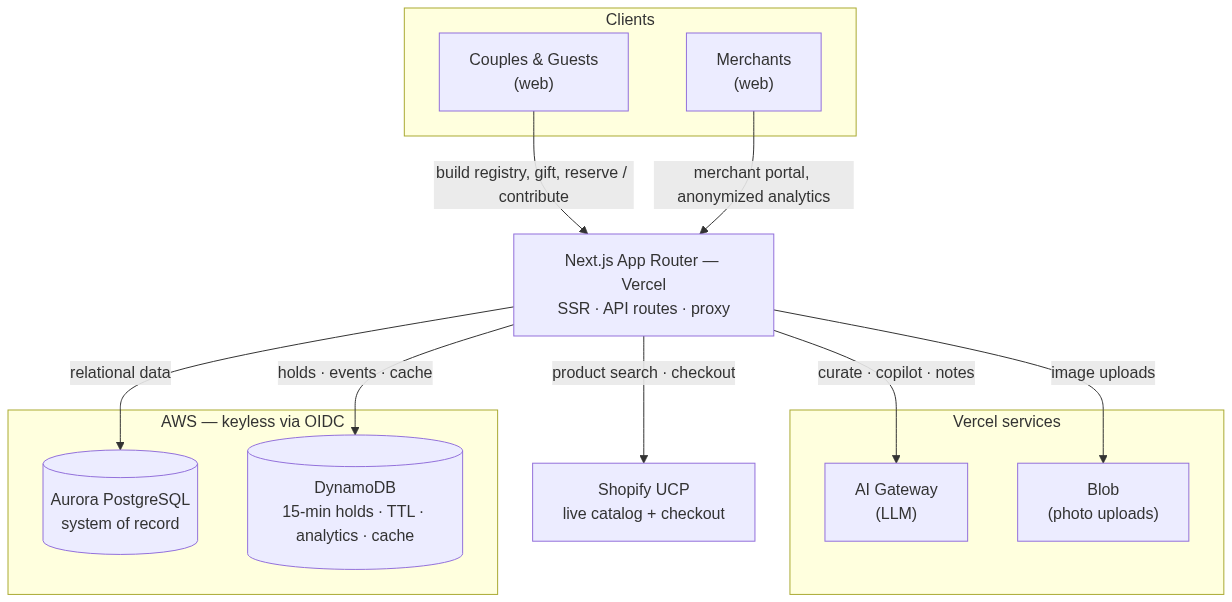
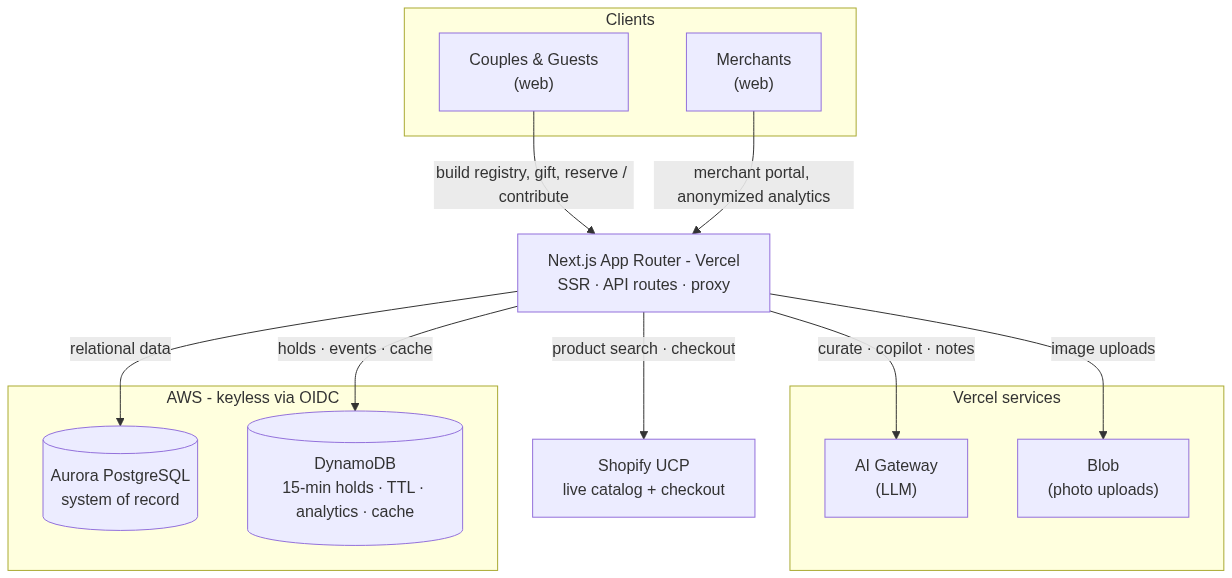
docs: replace em dashes with normal dashes / colons / parentheses

diff --git a/SUBMISSION.md b/SUBMISSION.md
@@ -1,4 +1,4 @@
-# VowCart — AI-Powered Universal Wedding Registry
+# VowCart - AI-Powered Universal Wedding Registry
 
 > A universal wedding registry that pulls real products from **any** Shopify merchant, lets AI build and manage it for couples, and turns aggregate registry demand into privacy-safe analytics for brands.
 
@@ -23,7 +23,7 @@ flowchart TB
     M["Merchants<br/>(web)"]
   end
 
-  APP["Next.js App Router — Vercel<br/>SSR · API routes · proxy"]
+  APP["Next.js App Router - Vercel<br/>SSR · API routes · proxy"]
 
   subgraph VSVC["Vercel services"]
     direction LR
@@ -33,7 +33,7 @@ flowchart TB
 
   SHOP["Shopify UCP<br/>live catalog + checkout"]
 
-  subgraph AWS["AWS — keyless via OIDC"]
+  subgraph AWS["AWS - keyless via OIDC"]
     direction LR
     PG[("Aurora PostgreSQL<br/>system of record")]
     DDB[("DynamoDB<br/>15-min holds · TTL · analytics · cache")]
@@ -52,7 +52,7 @@ flowchart TB
 **How the pieces connect**
 
 - **Next.js on Vercel** serves both the couple-facing app and the separate merchant portal, and hosts all API routes.
-- **Aurora PostgreSQL** is the relational source of truth — couples, registries, registry items, purchases, group-gift/cash-fund contributions, merchants, and sponsored campaigns.
+- **Aurora PostgreSQL** is the relational source of truth - couples, registries, registry items, purchases, group-gift/cash-fund contributions, merchants, and sponsored campaigns.
 - **DynamoDB** handles ephemeral, high-velocity, TTL-driven state: 15-minute reservation locks that auto-expire, analytics events, and an AI response cache.
 - **Vercel AI Gateway** runs the LLM features (registry curation, AI Copilot, recommendations, thank-you notes).
 - **Shopify Universal Commerce Protocol** provides keyless live product search across the global catalog and merchant checkout handoff.
@@ -65,17 +65,17 @@ flowchart TB
 
 **A large, resilient market.** Weddings are one of the most durable consumer-spend categories there is: **~2.0M weddings per year in the US** ([CDC/NCHS reported ~2.04M marriages in 2023][cdc]; [The Wedding Report][twr] estimates ~2.0M weddings in 2024–25), inside a **~$63–70B/year US wedding industry** ([Grand View Research: $64.9B in 2024][gvr]; [IBISWorld: $70.3B in 2023][ibis]) and a global wedding-services market estimated at **$250B+** and growing double digits ([Grand View Research][gvr-global]).
 
-**The registry is the commerce core of it.** About **91% of couples create a wedding registry**, and — for the first time — online registry creation (55%) has overtaken in-store (44%) ([The Knot][knot-insights]). Guests spend an average of **~$150 per wedding gift** ([The Knot 2024 Guest Study][knot-gift]), against an average US wedding cost of **~$33,000** ([The Knot 2024 Real Weddings Study][knot-rws]). The **digital wedding registry market itself** is estimated at roughly **$16B in 2025, projected to ~$50B by 2033 (~14.8% CAGR)** ([market research, 2025][reg-market]). And the same registry primitive powers adjacent, year-round occasions — baby showers, housewarmings, birthdays, holidays — so the model extends well beyond weddings.
+**The registry is the commerce core of it.** About **91% of couples create a wedding registry**, and (for the first time) online registry creation (55%) has overtaken in-store (44%) ([The Knot][knot-insights]). Guests spend an average of **~$150 per wedding gift** ([The Knot 2024 Guest Study][knot-gift]), against an average US wedding cost of **~$33,000** ([The Knot 2024 Real Weddings Study][knot-rws]). The **digital wedding registry market itself** is estimated at roughly **$16B in 2025, projected to ~$50B by 2033 (~14.8% CAGR)** ([market research, 2025][reg-market]). And the same registry primitive powers adjacent, year-round occasions (baby showers, housewarmings, birthdays, holidays), so the model extends well beyond weddings.
 
-**Why today's registries aren't actually universal.** The incumbents — Zola, The Knot, Amazon, Target, Crate & Barrel — build their catalogs through **merchant partnerships and one-off integrations**. Every brand on the platform is the result of a BD deal plus custom engineering, so even a "universal" registry is really a curated set of a few hundred partner brands. "Add any item" usually degrades to "paste a link we can't transact on," and most independent / DTC brands are simply missing. The catalog is gated by business development, not by what couples actually want to shop.
+**Why today's registries aren't actually universal.** The incumbents (Zola, The Knot, Amazon, Target, Crate & Barrel) build their catalogs through **merchant partnerships and one-off integrations**. Every brand on the platform is the result of a BD deal plus custom engineering, so even a "universal" registry is really a curated set of a few hundred partner brands. "Add any item" usually degrades to "paste a link we can't transact on," and most independent / DTC brands are simply missing. The catalog is gated by business development, not by what couples actually want to shop.
 
-**Why now — UCP changes the unit economics.** Shopify's **Universal Commerce Protocol (UCP)** flips that model. Instead of integrating merchants one at a time, an app gets **programmatic, keyless access to entire commerce catalogs and checkout through a single protocol**. Starting with the **Shopify ecosystem** — millions of merchants and a huge share of modern DTC/independent brands — the addressable product universe jumps from "our partner catalog" to **the open commerce graph**, effectively overnight. That is the entire thesis behind VowCart:
+**Why now: UCP changes the unit economics.** Shopify's **Universal Commerce Protocol (UCP)** flips that model. Instead of integrating merchants one at a time, an app gets **programmatic, keyless access to entire commerce catalogs and checkout through a single protocol**. Starting with the **Shopify ecosystem** (millions of merchants and a huge share of modern DTC/independent brands), the addressable product universe jumps from "our partner catalog" to **the open commerce graph**, effectively overnight. That is the entire thesis behind VowCart:
 
-- Couples get a **genuinely universal** registry — any product from any Shopify merchant, actually transactable, not a dead link.
+- Couples get a **genuinely universal** registry - any product from any Shopify merchant, actually transactable, not a dead link.
 - The catalog scales with **zero per-merchant BD or integration cost**, making the product viable for a small team and compounding as UCP adoption grows.
-- A broader, more relevant catalog lifts **gift conversion** — which makes the **anonymized demand analytics** we sell to brands meaningfully more valuable.
+- A broader, more relevant catalog lifts **gift conversion** - which makes the **anonymized demand analytics** we sell to brands meaningfully more valuable.
 
-UCP is the reason a truly universal registry is suddenly buildable — and why the timing is now.
+UCP is the reason a truly universal registry is suddenly buildable - and why the timing is now.
 
 <sub>Sources: figures are from third-party industry research and may use differing methodologies; ranges are given where estimates vary.</sub>
 
@@ -93,9 +93,9 @@ UCP is the reason a truly universal registry is suddenly buildable — and why t
 
 ## Inspiration
 
-Wedding registries are stuck in the past. Every store runs its own — so couples end up with three or four registries, and guests bounce between sites just to find something to buy. The result: duplicate gifts, abandoned big-ticket items nobody wants to buy alone, and hours of tedious curation for the couple.
+Wedding registries are stuck in the past. Every store runs its own - so couples end up with three or four registries, and guests bounce between sites just to find something to buy. The result: duplicate gifts, abandoned big-ticket items nobody wants to buy alone, and hours of tedious curation for the couple.
 
-Two things stood out to us. First, **registries are pure purchase-intent data** — a couple literally listing what they're about to buy and from which brands — yet the merchants behind those products never get to see that demand. Second, **the curation itself is a perfect job for AI**: "we love slow mornings and hosting friends" should be enough to generate a beautiful, personalized registry in seconds.
+Two things stood out to us. First, **registries are pure purchase-intent data** (a couple literally listing what they're about to buy and from which brands), yet the merchants behind those products never get to see that demand. Second, **the curation itself is a perfect job for AI**: "we love slow mornings and hosting friends" should be enough to generate a beautiful, personalized registry in seconds.
 
 So we built VowCart: one **universal** registry that pulls real products from _any_ Shopify merchant, an AI that does the heavy lifting for couples, and a privacy-respecting analytics layer that turns aggregate registry demand into something brands can actually act on.
 
@@ -105,41 +105,41 @@ VowCart is a **two-sided** product.
 
 **For couples & guests (B2C):**
 
-- **AI-built registry** — answer a few lifestyle questions and an LLM curates a starter registry of _real_ products, pulled live from Shopify's Universal Commerce Protocol catalog.
-- **Truly universal** — search and add products from any Shopify merchant; nothing is locked to a single store.
-- **AI Copilot** — chat to shape the registry ("add more under $75," "make it more minimalist," "remove expensive gifts") and approve proposed changes.
-- **Group gifting & cash funds** — let multiple guests rally toward a big-ticket item or a "Honeymoon in Italy" fund, with a live progress bar.
-- **Reservations & checkout** — guests reserve a gift (a 15-minute hold) or buy it via the merchant's real Shopify checkout; the item is auto-held for 15 minutes the moment a purchase starts so nothing gets double-bought.
-- **Thank-you tracker** — AI-generated thank-you notes in different tones, plus a beautiful public page and a scannable QR code for invitations.
+- **AI-built registry** - answer a few lifestyle questions and an LLM curates a starter registry of _real_ products, pulled live from Shopify's Universal Commerce Protocol catalog.
+- **Truly universal** - search and add products from any Shopify merchant; nothing is locked to a single store.
+- **AI Copilot** - chat to shape the registry ("add more under $75," "make it more minimalist," "remove expensive gifts") and approve proposed changes.
+- **Group gifting & cash funds** - let multiple guests rally toward a big-ticket item or a "Honeymoon in Italy" fund, with a live progress bar.
+- **Reservations & checkout** - guests reserve a gift (a 15-minute hold) or buy it via the merchant's real Shopify checkout; the item is auto-held for 15 minutes the moment a purchase starts so nothing gets double-bought.
+- **Thank-you tracker** - AI-generated thank-you notes in different tones, plus a beautiful public page and a scannable QR code for invitations.
 
 **For brands (B2B / monetization):**
 
-- A **separate merchant portal** with its own auth showing **anonymized, aggregated demand analytics** — which products and categories are being added and purchased across the network, and at what conversion.
+- A **separate merchant portal** with its own auth showing **anonymized, aggregated demand analytics** - which products and categories are being added and purchased across the network, and at what conversion.
 - **Sponsored placements** that brands can pay to promote, always rendered to couples with a clear "Sponsored" label.
 
 ## How we built it
 
 - **Frontend & hosting:** Next.js (App Router) + React + TypeScript + Tailwind, deployed on **Vercel**.
-- **Aurora PostgreSQL** — our **system of record**: couples, registries, registry items, purchases, contributions (group gifts/cash funds), merchants, and sponsored campaigns.
-- **DynamoDB** — for everything ephemeral and high-velocity: **reservation locks with native TTL** (15-minute holds that auto-expire), analytics events, and an AI response cache.
-- **Vercel AI Gateway** — powers the real AI features (registry curation, the Copilot, "For You" recommendations, and thank-you notes).
-- **Shopify Universal Commerce Protocol (UCP)** — keyless live product search across the global catalog and merchant checkout handoff, so the registry is genuinely universal.
-- **Vercel Blob** — couple cover-photo and gift-photo uploads.
-- **Keyless AWS access via OIDC** — Vercel deployments assume an AWS role to reach Aurora and DynamoDB with no long-lived secrets; a seed-data fallback keeps local dev fully functional.
+- **Aurora PostgreSQL** - our **system of record**: couples, registries, registry items, purchases, contributions (group gifts/cash funds), merchants, and sponsored campaigns.
+- **DynamoDB** - for everything ephemeral and high-velocity: **reservation locks with native TTL** (15-minute holds that auto-expire), analytics events, and an AI response cache.
+- **Vercel AI Gateway** - powers the real AI features (registry curation, the Copilot, "For You" recommendations, and thank-you notes).
+- **Shopify Universal Commerce Protocol (UCP)** - keyless live product search across the global catalog and merchant checkout handoff, so the registry is genuinely universal.
+- **Vercel Blob** - couple cover-photo and gift-photo uploads.
+- **Keyless AWS access via OIDC** - Vercel deployments assume an AWS role to reach Aurora and DynamoDB with no long-lived secrets; a seed-data fallback keeps local dev fully functional.
 
 ## Challenges we ran into
 
 - **Aurora Serverless cold starts.** After idle, the first request could exceed our connection timeout. We tuned the pool timeout, raised route `maxDuration`, added keep-alive and a one-shot retry, and the experience smoothed out.
 - **Making reservations actually mean something.** The 15-minute hold lived in DynamoDB but was never read back, so other guests didn't see it. We added a lock overlay on the public registry so a held gift shows as "Reserved" to _everyone_, and extended holds to trigger when a purchase begins.
 - **Picking the right database for each job.** Pushing fast-expiring reservation locks into Postgres would have meant a cleanup job; DynamoDB's TTL does it for free. Keeping relational integrity (purchases ↔ items ↔ couples) in DynamoDB would have been painful. Splitting responsibilities cleanly was a real design exercise.
-- **Privacy-safe B2B analytics.** Brands get demand signal without ever seeing individual couples or guests — all metrics are aggregated and anonymized.
+- **Privacy-safe B2B analytics.** Brands get demand signal without ever seeing individual couples or guests - all metrics are aggregated and anonymized.
 - **Reliable AI output.** Getting the LLM to return grounded, parseable curation (real product titles, correct counts) meant prompt iteration plus rule-based fallbacks so the app never breaks if the model wanders.
 
 ## Accomplishments that we're proud of
 
-- A registry that's **genuinely universal** — any product from any Shopify merchant, not a walled garden.
+- A registry that's **genuinely universal** - any product from any Shopify merchant, not a walled garden.
 - A **real two-sided business**: a delightful B2C experience _and_ a B2B analytics/ads product with a clear monetization model (sponsored placements + premium), built on one shared commerce graph.
-- **AI that's useful, not a gimmick** — it builds the registry, edits it conversationally, recommends, and writes the thank-you notes.
+- **AI that's useful, not a gimmick** - it builds the registry, edits it conversationally, recommends, and writes the thank-you notes.
 - **Privacy by design** on the merchant side: actionable demand insights with zero exposure of individual users.
 - A polished, mobile-friendly product running entirely on **Vercel + Aurora PostgreSQL + DynamoDB** with no servers to manage and keyless AWS auth.
 